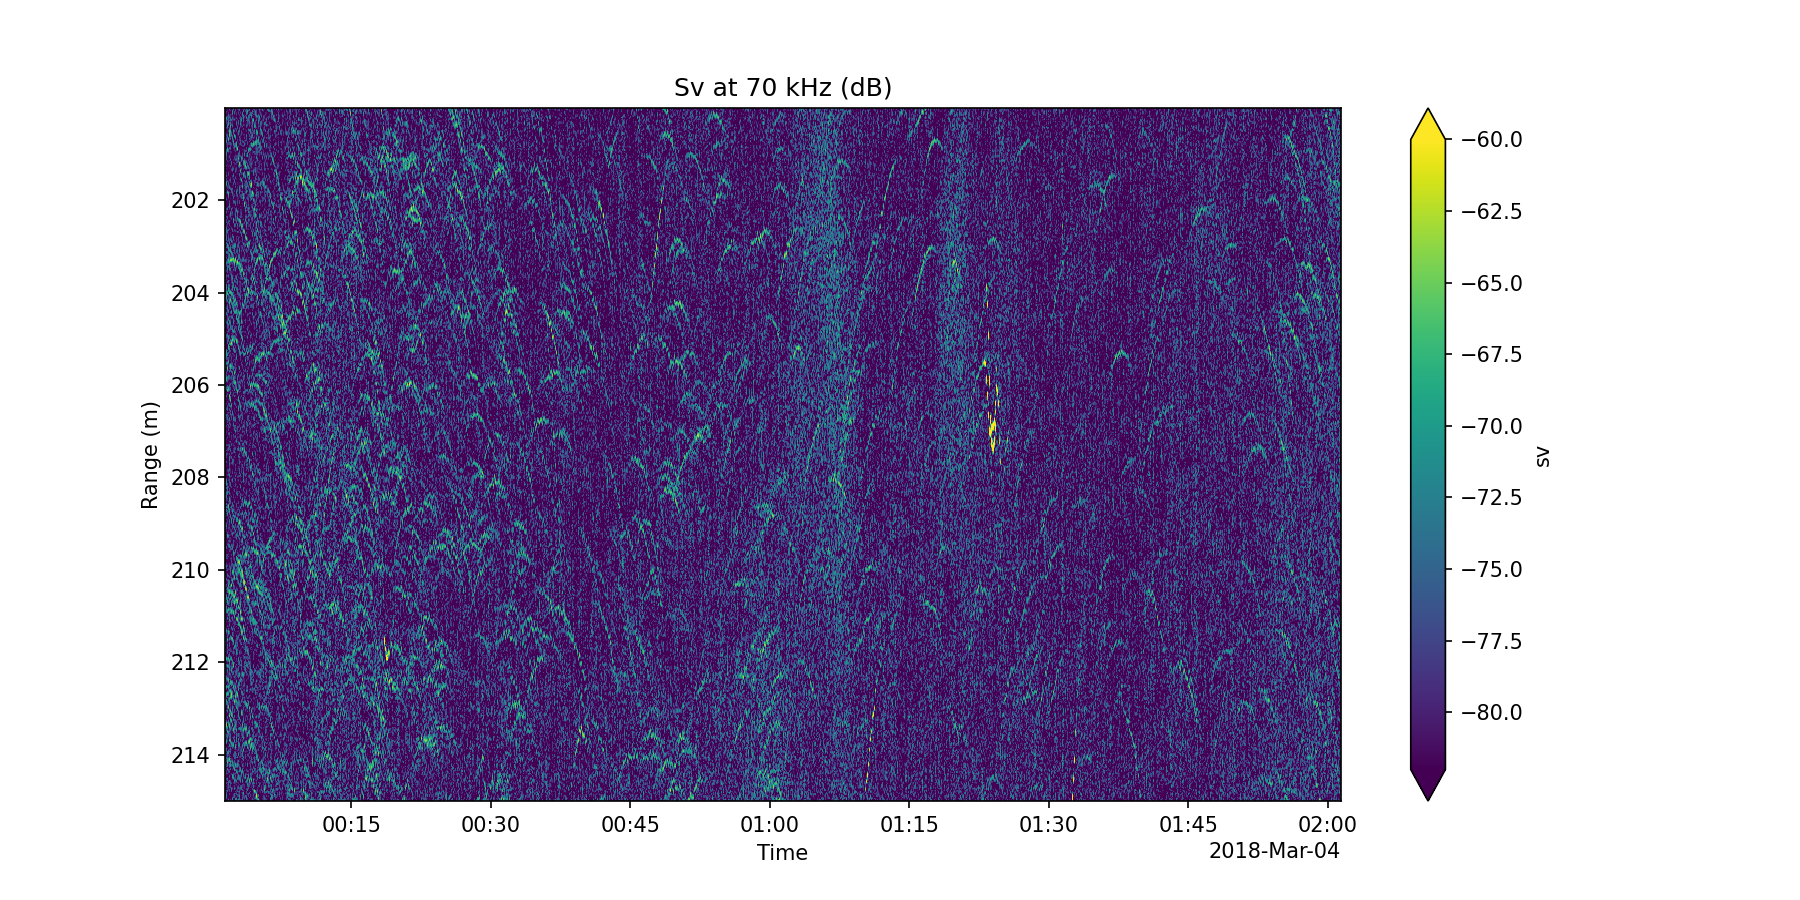
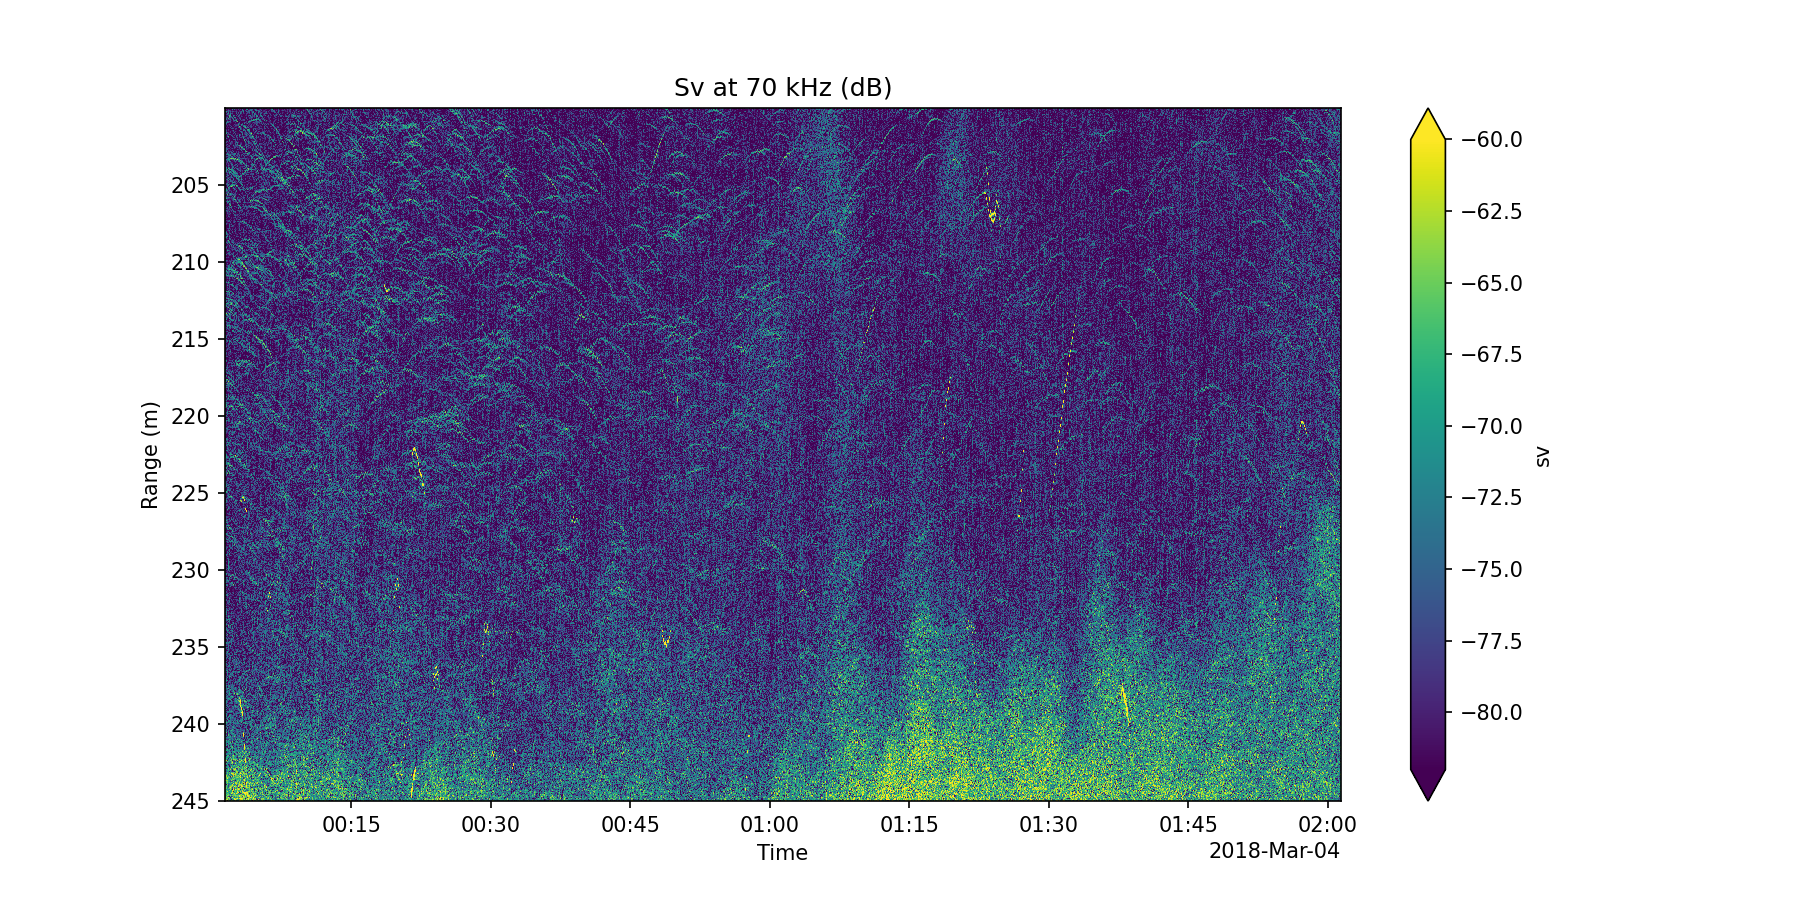
Inertia needs double check

diff --git a/dBdiff.py b/dBdiff.py
@@ -39,7 +39,7 @@ end_time   = "2018-03-04 02:01:25" # Select subset of data
 
 # Range selection
 start_range = 200 # m
-end_range   = 215 # m
+end_range   = 245 # m
 
 # Example dataset with herring schools, two (crimac-scratch/test_data/dBDiff)
 # No preprocessing in Korona (ie averaging)
@@ -106,7 +106,7 @@ ax.invert_yaxis()         # optional: depth increasing downwards
 fig.savefig('sv_70kHz.png', dpi=150)
 plt.close(fig)
 
-# Urmy parameters:
+# Urmy parameters: =============================================
 sv_values = sv_sel.values
 print(sv_values.shape)  # (40, 76)
 print(len(sv_values[0]))
@@ -115,13 +115,52 @@ print(len(sv_values[0]))
 sv_sum_range = sv_sel.sum(dim="range")
 
 # From Urmy parameters Urmy et al 2012 - ICES J Marine Science
-Abundance = Delta_R * sv_sum_range # as a function of ping time
+Integrate_sv_dz = ( Delta_R * sv_sum_range ) # as a function of ping time
+Abundance = 10*np.log10( Integrate_sv_dz ) # as a function of ping time
 
 fig, ax = plt.subplots(figsize=(12, 6))
 ax.plot(Abundance)
 ax.set_title('Abundance')
 ax.set_xlabel('Ping number')
-fig.savefig('sAbundance.png', dpi=150)
+fig.savefig('Abundance.png', dpi=150)
+plt.close(fig)
+
+Density = 10*np.log10( Integrate_sv_dz/(end_range - start_range) )
+
+fig, ax = plt.subplots(figsize=(12, 6))
+ax.plot(Density)
+ax.set_title('Density')
+ax.set_xlabel('Ping number')
+fig.savefig('Density.png', dpi=150)
+plt.close(fig)
+
+# Range_val = sv_sel.coords['range'].values
+print(sv_sel["range"].shape)
+print(sv_sel.values.shape)
+
+z_product_svz = sv_sel * sv_sel["range"]
+z_product_svz_dz = z_product_svz * Delta_R
+
+# print(z_product_svz)
+
+CenterofMass = (z_product_svz_dz.sum(dim="range") ) / Integrate_sv_dz
+
+fig, ax = plt.subplots(figsize=(12, 6))
+ax.plot(CenterofMass)
+ax.set_title('CenterofMass')
+ax.set_xlabel('Ping number')
+fig.savefig('CenterofMass.png', dpi=150)
+plt.close(fig)
+
+
+Z_minus_CM_mult_svzdz = ( sv_sel * ((sv_sel["range"] - CenterofMass )**2) ) * Delta_R
+Inertia = (Z_minus_CM_mult_svzdz.sum(dim="range") ) / Integrate_sv_dz
+
+fig, ax = plt.subplots(figsize=(12, 6))
+ax.plot(Inertia)
+ax.set_title('Inertia')
+ax.set_xlabel('Ping number')
+fig.savefig('Inertia.png', dpi=150)
 plt.close(fig)
 
 # # Subset for ping_time
